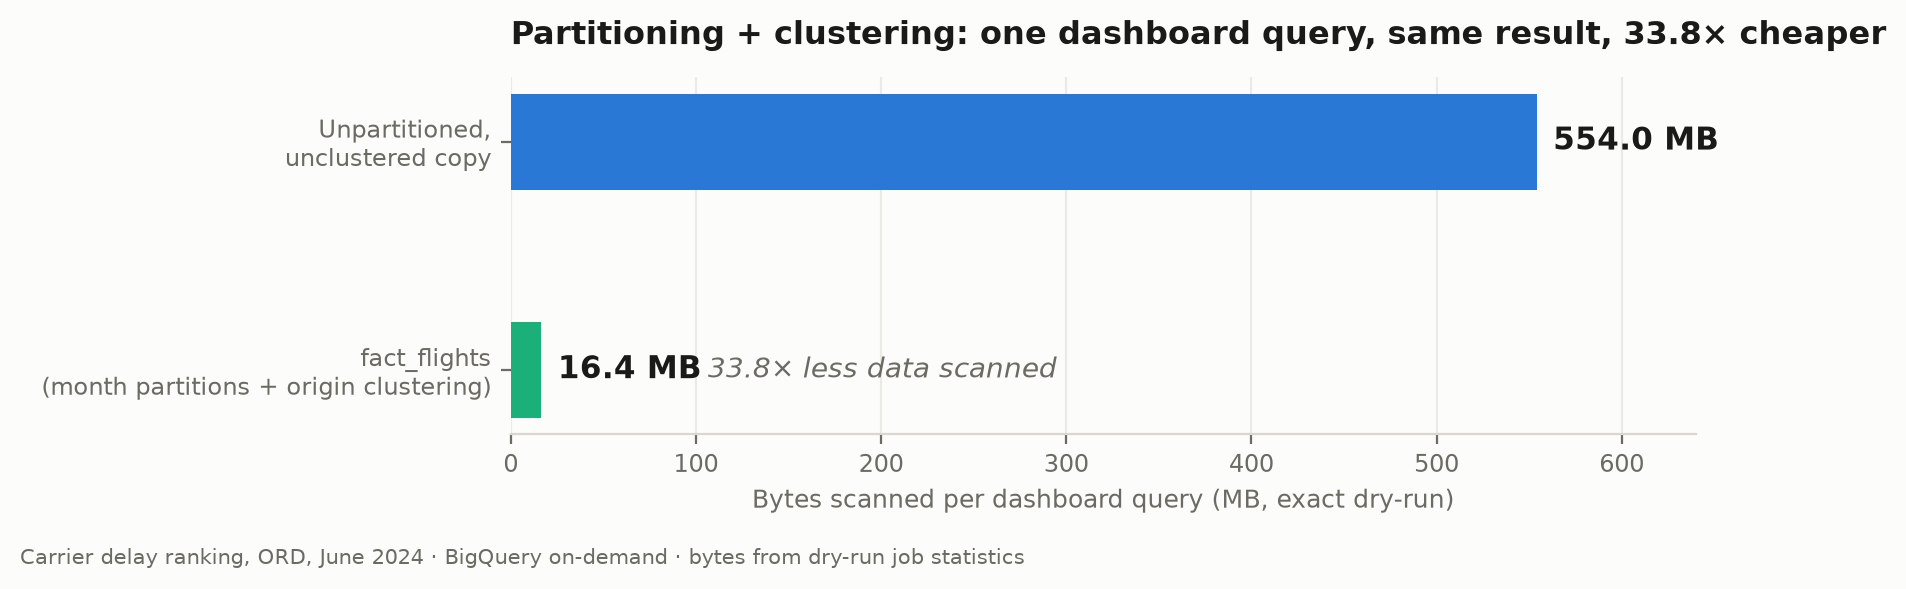
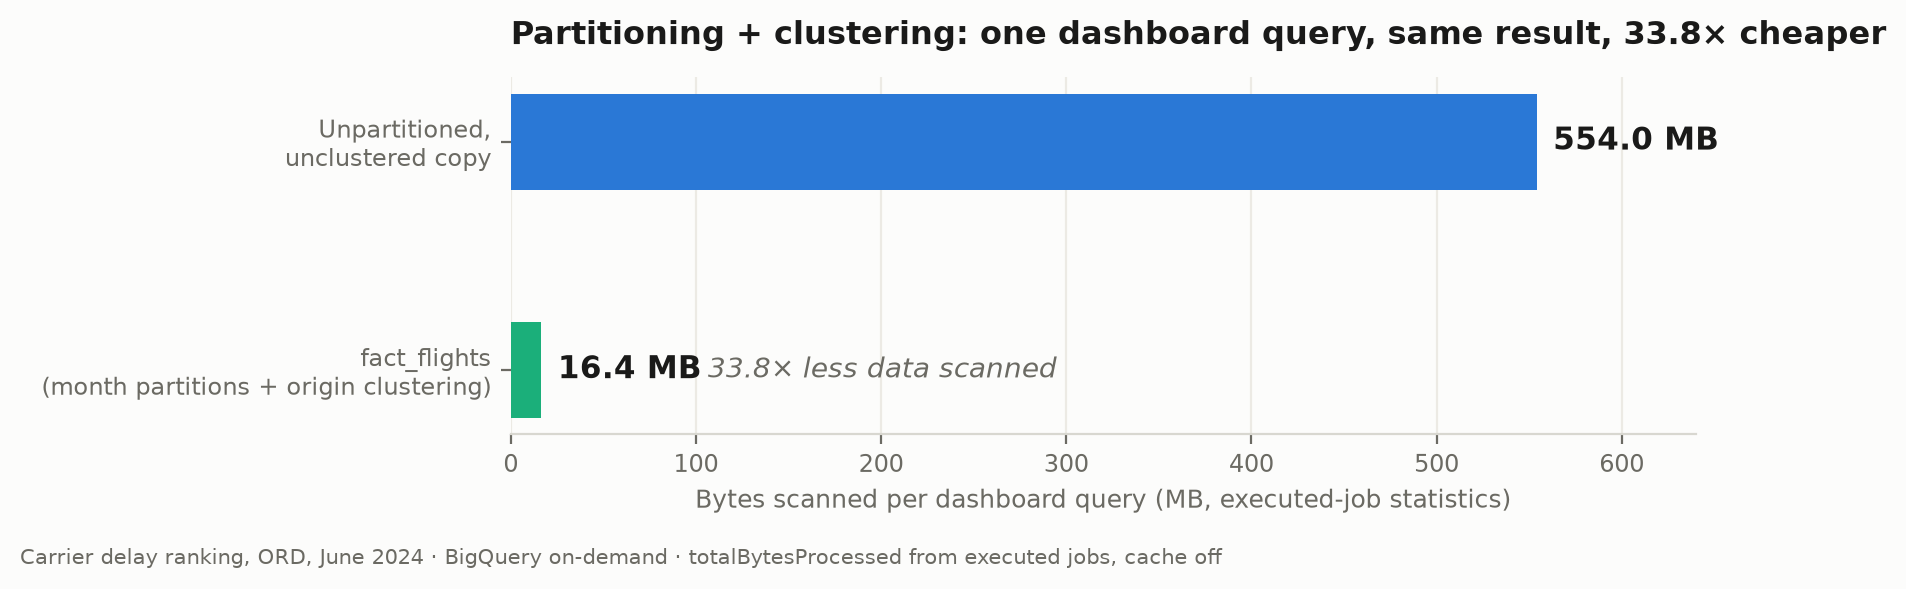
fix benchmark methodology: executed-job bytes, not dry-run estimates
Dry-run totalBytesProcessed is an UPPER_BOUND estimate for clustered
tables (BigQuery prunes cluster blocks at execution), so labeling the
optimized figure "exact" was wrong. All headline numbers now come from
executed job statistics (totalBytesProcessed/totalBytesBilled, cache
off, 3 runs per variant), exact for both table layouts: 554.0 MB ->
16.4 MB, ratio unchanged at 33.8x; runtime medians 425 ms -> 249 ms
(1.7x). Dry-run figures remain only as a labeled reference table with
their live accuracy fields (PRECISE baseline, UPPER_BOUND clustered).
Both the README and benchmark_query.sql now carry the exact baseline
recreate DDL so the benchmark is literally reproducible. Found by
Codex review.

Changed region(s): [[0.3715, 0.8251, 0.8048, 0.8862], [0.3715, 0.9168, 0.6501, 0.9779]]

diff --git a/docs/benchmarks/README.md b/docs/benchmarks/README.md
@@ -3,23 +3,36 @@
 **Claim (blog/resume-ready):** Partitioning `fact_flights` by month and
 clustering by origin airport cut a representative dashboard query — the carrier
 delay ranking for one airport-month (ORD, June 2024) — from **554.0 MB scanned
-to 16.4 MB, a 33.8× reduction**, measured with exact BigQuery dry-run job
-statistics. At on-demand pricing ($6.25/TiB) that is **$0.00315 → $0.000095 per
-query (33×)**, roughly **$306 saved per 100,000 dashboard queries**, and median
-runtime dropped 1.8× (367 ms → 206 ms). Same query, same result — the only
-difference is table layout.
+to 16.4 MB, a 33.8× reduction**, measured from executed BigQuery job statistics
+with the cache disabled. At on-demand pricing ($6.25/TiB) that is
+**$0.00315 → $0.000095 per query (33×)**, roughly **$306 saved per 100,000
+dashboard queries**, and median runtime dropped 1.7× (425 ms → 249 ms). Same
+query, same result — the only difference is table layout.
 
 ![benchmark](fact_flights_pruning_benchmark.png)
 
-## Before / after
+## Before / after (executed-job statistics)
 
 | | Unpartitioned, unclustered copy | `fact_flights` (month partitions, origin/dest/carrier clustering) | Improvement |
 |---|---|---|---|
-| Bytes scanned (exact, dry run) | 553,975,488 B (554.0 MB) | 16,411,824 B (16.4 MB) | **33.8×** |
-| Bytes billed (job stats) | 554,696,704 B | 16,777,216 B | 33.1× |
+| Bytes scanned (`totalBytesProcessed`, executed jobs) | 553,975,488 B (554.0 MB) | 16,411,824 B (16.4 MB) | **33.8×** |
+| Bytes billed (`totalBytesBilled`, executed jobs) | 554,696,704 B | 16,777,216 B | 33.1× |
 | Est. cost per query (on-demand $6.25/TiB) | $0.003153 | $0.0000954 | **33.1×** |
-| Median runtime (3 runs, cache off) | 367 ms | 206 ms | 1.8× |
+| Median runtime (3 runs, cache off) | 425 ms | 249 ms | 1.7× |
 | Cost per 100,000 queries | $315.31 | $9.54 | −$305.77 |
+
+For reference only — dry-run estimates, which are **not** exact for clustered
+tables (BigQuery returns an upper bound before block pruning; see the
+`totalBytesProcessedAccuracy` field):
+
+| | Dry-run estimate | `totalBytesProcessedAccuracy` |
+|---|---|---|
+| Unpartitioned copy | 553,975,488 B | `PRECISE` |
+| `fact_flights` (clustered) | 16,411,824 B | `UPPER_BOUND` |
+
+For this query the executed scan happened to equal the upper-bound estimate;
+the headline numbers above are from executed jobs regardless, because only
+executed `totalBytesProcessed` is exact for clustered tables.
 
 ## Method
 
@@ -27,11 +40,23 @@ difference is table layout.
   (`date_key`, the partition column) and one origin airport
   (`origin_airport_key`, the first clustering column); the exact drill-down a
   dashboard fires.
-- Baseline: `CREATE TABLE ... AS SELECT * FROM fact_flights` with no
-  partitioning/clustering (verified via INFORMATION_SCHEMA DDL), dropped after
-  measurement; this file + the query recreate the benchmark.
-- Bytes scanned from dry-run `totalBytesProcessed` (exact); billed bytes,
-  cache-hit status (all false), and runtimes from real job statistics,
-  3 runs per variant, run 2026-07-09.
+- **Bytes and runtimes come from executed job statistics**
+  (`statistics.query.totalBytesProcessed` / `totalBytesBilled`, job
+  `startTime`→`endTime`), which are exact for clustered and unclustered tables
+  alike. 3 runs per variant, `cacheHit: false` verified on all six, run
+  2026-07-09. Dry-run figures are reported only as labeled estimates with
+  their accuracy field.
+- Baseline recreate DDL (verified unpartitioned/unclustered via
+  INFORMATION_SCHEMA; dropped after measurement):
+
+  ```sql
+  CREATE OR REPLACE TABLE `<project>.flight_delays_gold.fact_flights_benchmark_baseline`
+  AS SELECT * FROM `<project>.flight_delays_gold.fact_flights`;
+  -- plain CTAS: no PARTITION BY, no CLUSTER BY
+  ```
+
 - Both variants benefit equally from BigQuery's columnar pruning (only the five
   referenced columns are read); the 33.8× is partition + cluster pruning alone.
+- Honest caveat: runtime gains are modest at 20M rows — BigQuery parallelizes
+  both variants easily. Bytes and dollars are the story, and they scale
+  linearly with data volume and dashboard traffic.